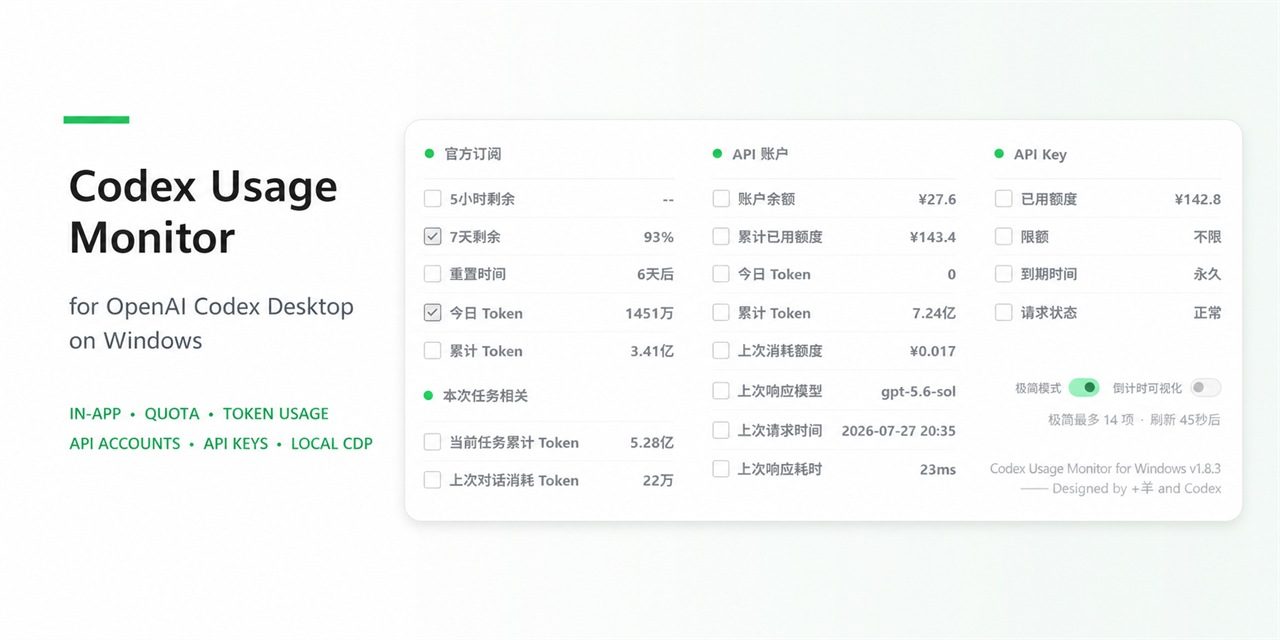
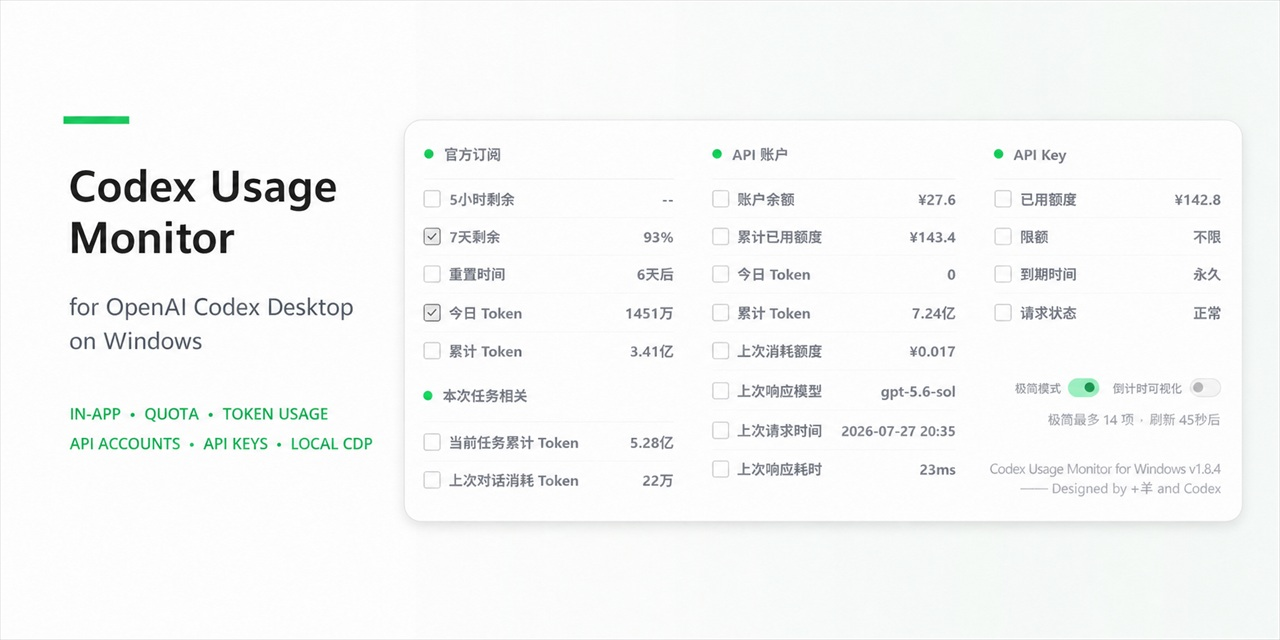
Release v1.8.4

diff --git a/assets/usage-inject.js b/assets/usage-inject.js
@@ -796,7 +796,7 @@
           brand.className = "usage-column-brand";
           const product = document.createElement("span");
           product.className = "usage-brand-product";
-          product.textContent = "Codex Usage Monitor for Windows v1.8.3";
+          product.textContent = "Codex Usage Monitor for Windows v1.8.4";
           const credit = document.createElement("span");
           credit.className = "usage-brand-credit";
           credit.textContent = "—— Designed by +羊 and Codex";

diff --git a/README.md b/README.md
@@ -9,7 +9,7 @@ Track official subscription quota and reset time, task token usage, API account 
 
 这是一个直接显示在 Windows 版 OpenAI Codex Desktop 输入区域内的用量监视栏。它通过仅绑定本机的 CDP 运行时注入，在 Codex 输入栏旁显示官方订阅周期余量与重置时间、任务 Token、API 账户和 API Key 用量。它不是桌面悬浮窗，也不修改 WindowsApps、`app.asar`、Codex 登录文件或模型配置。
 
-**v1.8.3 更新：**官方订阅将原“周期剩余”拆分为“5小时剩余”和“7天剩余”；重置时间优先跟随 5 小时窗口，官方未返回 5 小时窗口时自动使用 7 天窗口，两个窗口都缺失时显示 `--`。展开面板右下角同步显示当前版本号。
+**v1.8.4 更新：**审批模式切换时监视栏持续可见；重置时间显示具体月日和分钟；启动器优先使用独立 Codex CLI，避免不兼容的桌面捆绑 CLI 查询官方额度时持续超时；同步增强 Windows PowerShell 兼容性。
 
 - 直接注入 Codex Desktop 渲染页面，不是独立悬浮窗。
 - 同一面板支持官方订阅、API 账户和 API Key 三种数据源。
@@ -88,9 +88,9 @@ pwsh -NoProfile -File .\scripts\configure-token-baseline.ps1 -InitialTokens <完
 
 ### 1.4 展开监视栏查看和勾选
 
-点击监视栏即可展开三栏面板。左侧“官方订阅”下方另设“本次任务相关”分区，集中显示当前任务累计 Token 和上次对话消耗 Token。每项前的复选框决定是否显示在折叠后的监视栏中，最多显示 8 项；三栏网络数据共用 60 秒刷新周期，官方订阅及本次任务中符合条件的本机 Token 最多约 2 秒更新一次。请求失败时保留上一次成功数据，指示灯变为灰色，不会把已有数值清空。
+点击监视栏即可展开三栏面板。左侧“官方订阅”下方另设“本次任务相关”分区，集中显示当前任务累计 Token 和上次对话消耗 Token。每项前的复选框决定是否显示在折叠后的监视栏中，最多显示 8 项；三栏网络数据共用 60 秒刷新周期，官方订阅及本次任务中符合条件的本机 Token 最多约 2 秒更新一次。请求失败时保留上一次成功数据；有缓存时指示灯变为红色，没有可用数据时显示灰色。
 
-面板右下角、“Codex Usage Monitor for Windows v1.8.3”标识上方提供两个显示开关以及“最多显示 · 刷新”提示：开启“极简模式”后，折叠监视栏只显示数值与单位，不显示数据项名称，可最多选择 14 项，并在选中 9 项及以上时启用双行压缩布局；普通模式仍最多选择 8 项。开启“倒计时可视化”后，折叠监视栏最左侧显示与文字同色的圆形表盘，绿色指针每 60 秒顺时针旋转一圈。这些选择保存在 Codex 本地页面设置中。
+面板右下角、“Codex Usage Monitor for Windows v1.8.4”标识上方提供两个显示开关以及“最多显示 · 刷新”提示：开启“极简模式”后，折叠监视栏只显示数值与单位，不显示数据项名称，可最多选择 14 项，并在选中 9 项及以上时启用双行压缩布局；普通模式仍最多选择 8 项。开启“倒计时可视化”后，折叠监视栏最左侧显示与文字同色的圆形表盘，绿色指针每 60 秒顺时针旋转一圈。这些选择保存在 Codex 本地页面设置中。
 
 ## 2. 完整说明
 

diff --git a/CHANGELOG.md b/CHANGELOG.md
@@ -1,5 +1,12 @@
 # Changelog
 
+## 1.8.4 - 2026-07-30
+
+- Codex 在“请求批准”“替我审批”“完全访问权限”“自定义”之间切换时，监视栏会自动恢复并保持可见。
+- 官方重置时间改为显示具体月日和分钟；折叠栏保留日期与时间之间的空格。
+- 启动器优先使用独立安装的 Codex CLI，避免不兼容的桌面捆绑 CLI 持续触发官方额度查询超时；用户显式设置的 `CODEX_USAGE_CODEX_PATH` 仍具有最高优先级。
+- 增强 Windows PowerShell 兼容性，补充启动器 CLI 选择、审批模式切换和界面布局回归测试，并固定本机 Token 测试的日期锚点，避免午夜边界随机失败。
+
 ## 1.8.2 - 2026-07-26
 
 - “上次对话消耗 Token”改为按 `turn_context` 划分可见对话，并累计该轮全部 `token_count.total_token_usage` 正增量；工具调用导致的多次模型调用会全部计入，重复快照不会重复计算。
